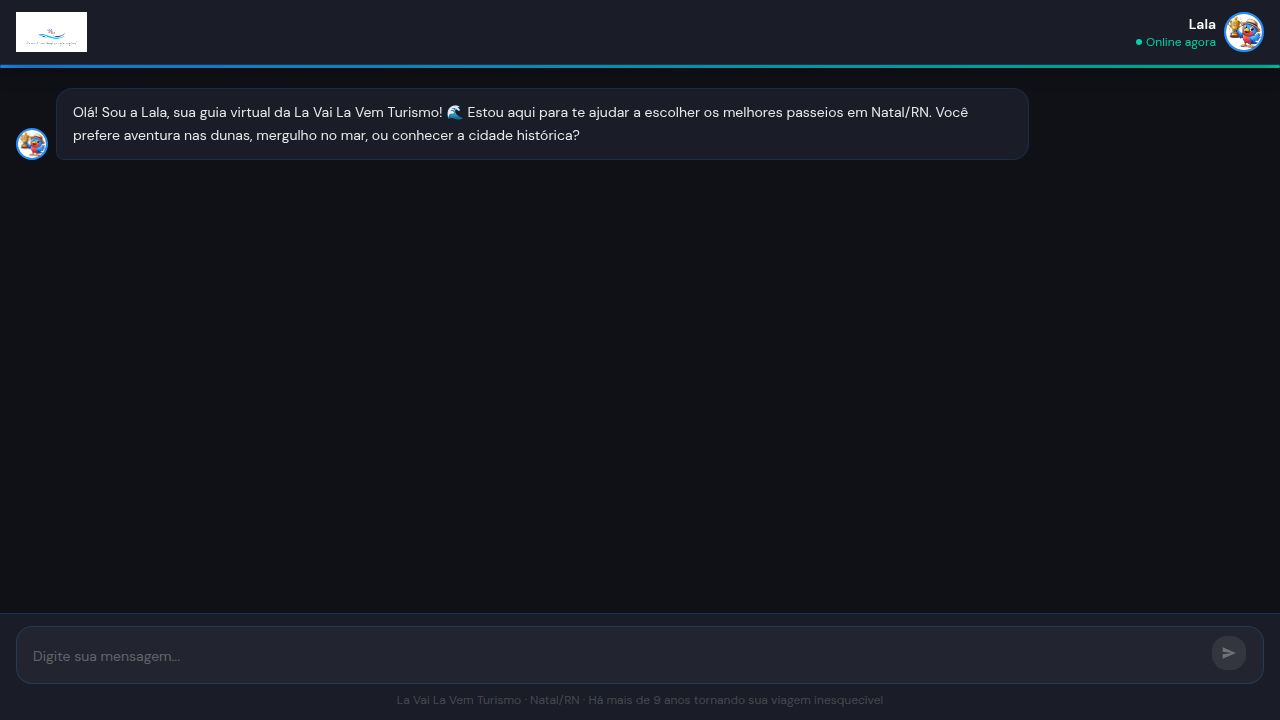
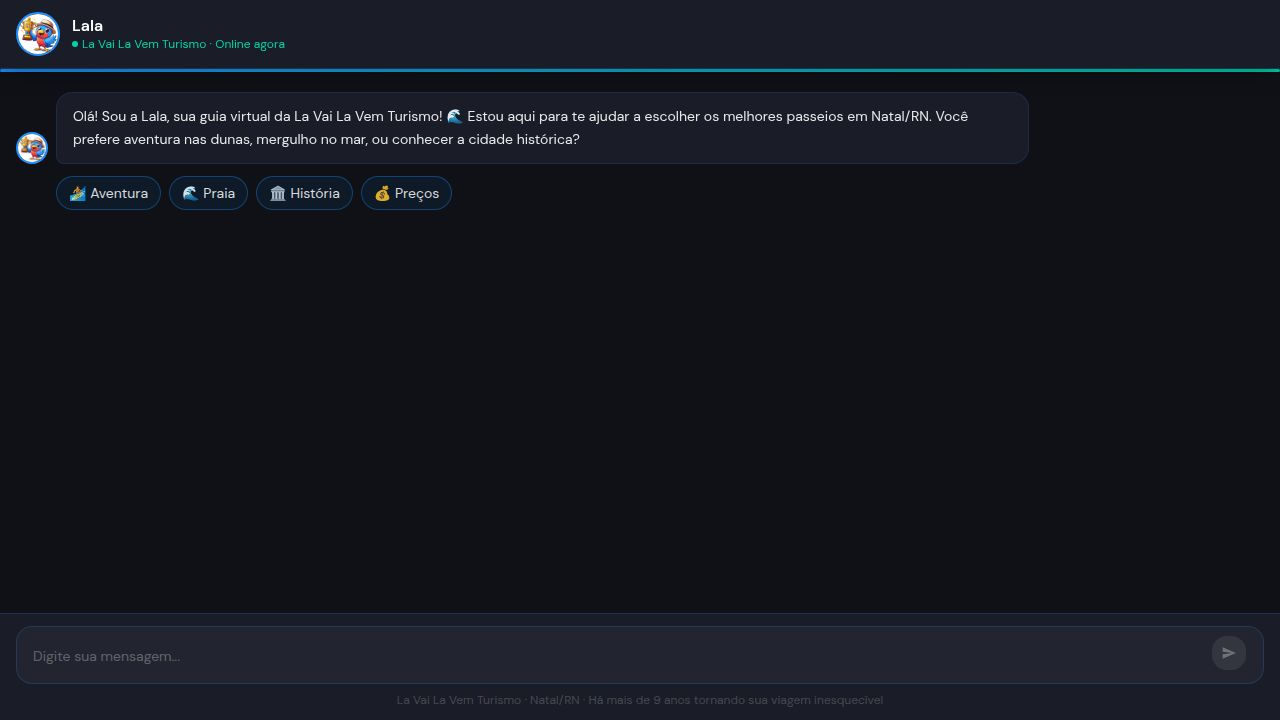
feat(chatbot): persist chat history in localStorage (Task #8)
## What was done
- Chat messages and API history are now saved to localStorage under
  `lala_chat_messages` and `lala_chat_history` keys on every state change.
- On app load, saved messages are restored automatically so the user
  continues from where they left off.
- Welcome message uses a stable ID (`welcome-0`) to avoid collisions
  with dynamically generated IDs (which now use Date.now() prefix).
- Welcome chips are controlled by `showWelcomeChips` React state:
  - Initialized to `true` only if `lala_welcome_chips_seen` is absent
    from localStorage (i.e., genuine first-ever opening).
  - A mount-only `useEffect` writes `lala_welcome_chips_seen = "true"`
    to localStorage so future sessions skip chips.
  - `handleNewConversation` explicitly sets `showWelcomeChips(false)`,
    so chips don't reappear even within the same session after a reset.
- "Nova conversa" button appears in the header whenever `messages.length > 1`
  (i.e., the user has sent at least one message). Clicking it clears
  localStorage conversation/history keys and resets React state.
- Storage read/write is wrapped in try/catch so failures (quota exceeded,
  private browsing restrictions) are silent and don't break the app.

## Deviations from original review
Initial submission used a flawed `isFirstVisit` derived variable which
caused chips to reappear after "Nova conversa". Fixed with a dedicated
`showWelcomeChips` state + `lala_welcome_chips_seen` localStorage flag.

## Files changed
[…]

Changed region(s): [[0.0, 0.0, 1.0, 0.2444], [0.0312, 0.2444, 0.3438, 0.3056]]

diff --git a/artifacts/chatbot/src/pages/ChatPage.tsx b/artifacts/chatbot/src/pages/ChatPage.tsx
@@ -9,29 +9,89 @@ import mascoteImg from "@assets/ChatGPT_Image_21_de_dez._de_2025,_13_03_23_17813
 
 let idCounter = 0;
 function uid() {
-  return String(++idCounter);
+  return String(Date.now()) + String(++idCounter);
 }
 
 const WELCOME_CHIPS = ["🏄 Aventura", "🌊 Praia", "🏛 História", "💰 Preços"];
 
 const WELCOME_MESSAGE: Message = {
-  id: "0",
+  id: "welcome-0",
   role: "bot",
   text: "Olá! Sou a Lala, sua guia virtual da La Vai La Vem Turismo! 🌊 Estou aqui para te ajudar a escolher os melhores passeios em Natal/RN. Você prefere aventura nas dunas, mergulho no mar, ou conhecer a cidade histórica?",
   chips: WELCOME_CHIPS,
 };
 
+const LS_MESSAGES_KEY = "lala_chat_messages";
+const LS_HISTORY_KEY = "lala_chat_history";
+const LS_CHIPS_SEEN_KEY = "lala_welcome_chips_seen";
+
+function loadFromStorage<T>(key: string): T | null {
+  try {
+    const raw = localStorage.getItem(key);
+    return raw ? (JSON.parse(raw) as T) : null;
+  } catch {
+    return null;
+  }
+}
+
+function saveToStorage(key: string, value: unknown) {
+  try {
+    localStorage.setItem(key, JSON.stringify(value));
+  } catch {
+    // storage full or unavailable — fail silently
+  }
+}
+
+function getInitialMessages(): Message[] {
+  const saved = loadFromStorage<Message[]>(LS_MESSAGES_KEY);
+  if (saved && saved.length > 0) return saved;
+  return [WELCOME_MESSAGE];
+}
+
+function getInitialHistory(): ChatMessage[] {
+  const saved = loadFromStorage<ChatMessage[]>(LS_HISTORY_KEY);
+  return saved ?? [];
+}
+
 export function ChatPage() {
-  const [messages, setMessages] = useState<Message[]>([WELCOME_MESSAGE]);
+  const [messages, setMessages] = useState<Message[]>(getInitialMessages);
   const [input, setInput] = useState("");
   const [isTyping, setIsTyping] = useState(false);
-  const [history, setHistory] = useState<ChatMessage[]>([]);
+  const [history, setHistory] = useState<ChatMessage[]>(getInitialHistory);
+  // True only on the very first ever opening of the app (no LS flag present).
+  // Once set false (by "Nova conversa" or next sessions) chips never return.
+  const [showWelcomeChips, setShowWelcomeChips] = useState<boolean>(
+    () => localStorage.getItem(LS_CHIPS_SEEN_KEY) !== "true"
+  );
   const messagesEndRef = useRef<HTMLDivElement>(null);
   const inputRef = useRef<HTMLTextAreaElement>(null);
 
   useEffect(() => {
     messagesEndRef.current?.scrollIntoView({ behavior: "smooth" });
   }, [messages, isTyping]);
+
+  useEffect(() => {
+    saveToStorage(LS_MESSAGES_KEY, messages);
+  }, [messages]);
+
+  useEffect(() => {
+    saveToStorage(LS_HISTORY_KEY, history);
+  }, [history]);
+
+  // Persist the "chips seen" flag on first mount so future sessions skip chips.
+  useEffect(() => {
+    localStorage.setItem(LS_CHIPS_SEEN_KEY, "true");
+  }, []);
+
+  const handleNewConversation = useCallback(() => {
+    localStorage.removeItem(LS_MESSAGES_KEY);
+    localStorage.removeItem(LS_HISTORY_KEY);
+    setMessages([WELCOME_MESSAGE]);
+    setHistory([]);
+    setInput("");
+    setShowWelcomeChips(false); // chips never reappear after Nova conversa
+    setTimeout(() => inputRef.current?.focus(), 0);
+  }, []);
 
   const handleSend = useCallback(async (override?: string) => {
     const text = (override ?? input).trim();
@@ -89,6 +149,7 @@ export function ChatPage() {
     -1
   );
 
+
   return (
     <div
       className="flex flex-col h-screen w-full"
@@ -113,7 +174,7 @@ export function ChatPage() {
             className="w-full h-full object-cover object-top"
           />
         </div>
-        <div className="flex flex-col">
+        <div className="flex flex-col flex-1">
           <span className="text-base font-semibold text-white leading-tight">Lala</span>
           <span className="text-xs flex items-center gap-1" style={{ color: "var(--color-brand-teal)" }}>
             <span
@@ -123,6 +184,26 @@ export function ChatPage() {
             La Vai La Vem Turismo · Online agora
           </span>
         </div>
+
+        {/* Nova conversa button — only when there's a saved conversation */}
+        {messages.length > 1 && (
+          <button
+            onClick={handleNewConversation}
+            title="Nova conversa"
+            className="flex-shrink-0 flex items-center gap-1.5 px-3 py-1.5 rounded-xl text-xs font-medium transition-all hover:scale-105 active:scale-95"
+            style={{
+              background: "rgba(30,144,255,0.12)",
+              border: "1px solid rgba(30,144,255,0.3)",
+              color: "rgba(255,255,255,0.7)",
+            }}
+          >
+            <svg width="13" height="13" viewBox="0 0 24 24" fill="none" stroke="currentColor" strokeWidth="2.2" strokeLinecap="round" strokeLinejoin="round">
+              <polyline points="1 4 1 10 7 10" />
+              <path d="M3.51 15a9 9 0 1 0 .49-4.35" />
+            </svg>
+            Nova conversa
+          </button>
+        )}
       </header>
 
       {/* Wave stripe */}
@@ -133,7 +214,7 @@ export function ChatPage() {
         {messages.map((msg, i) => (
           <div key={msg.id} className="flex flex-col gap-2">
             <MessageBubble message={msg} />
-            {msg.chips && i === lastBotIndex && !isTyping && (
+            {msg.chips && i === lastBotIndex && !isTyping && showWelcomeChips && (
               <QuickReplies
                 chips={msg.chips}
                 onSelect={handleChipClick}
@@ -178,7 +259,7 @@ export function ChatPage() {
             disabled={isTyping}
           />
           <button
-            onClick={handleSend}
+            onClick={() => handleSend()}
             disabled={!input.trim() || isTyping}
             className="flex-shrink-0 w-9 h-9 rounded-xl flex items-center justify-center transition-all mb-1"
             style={{
